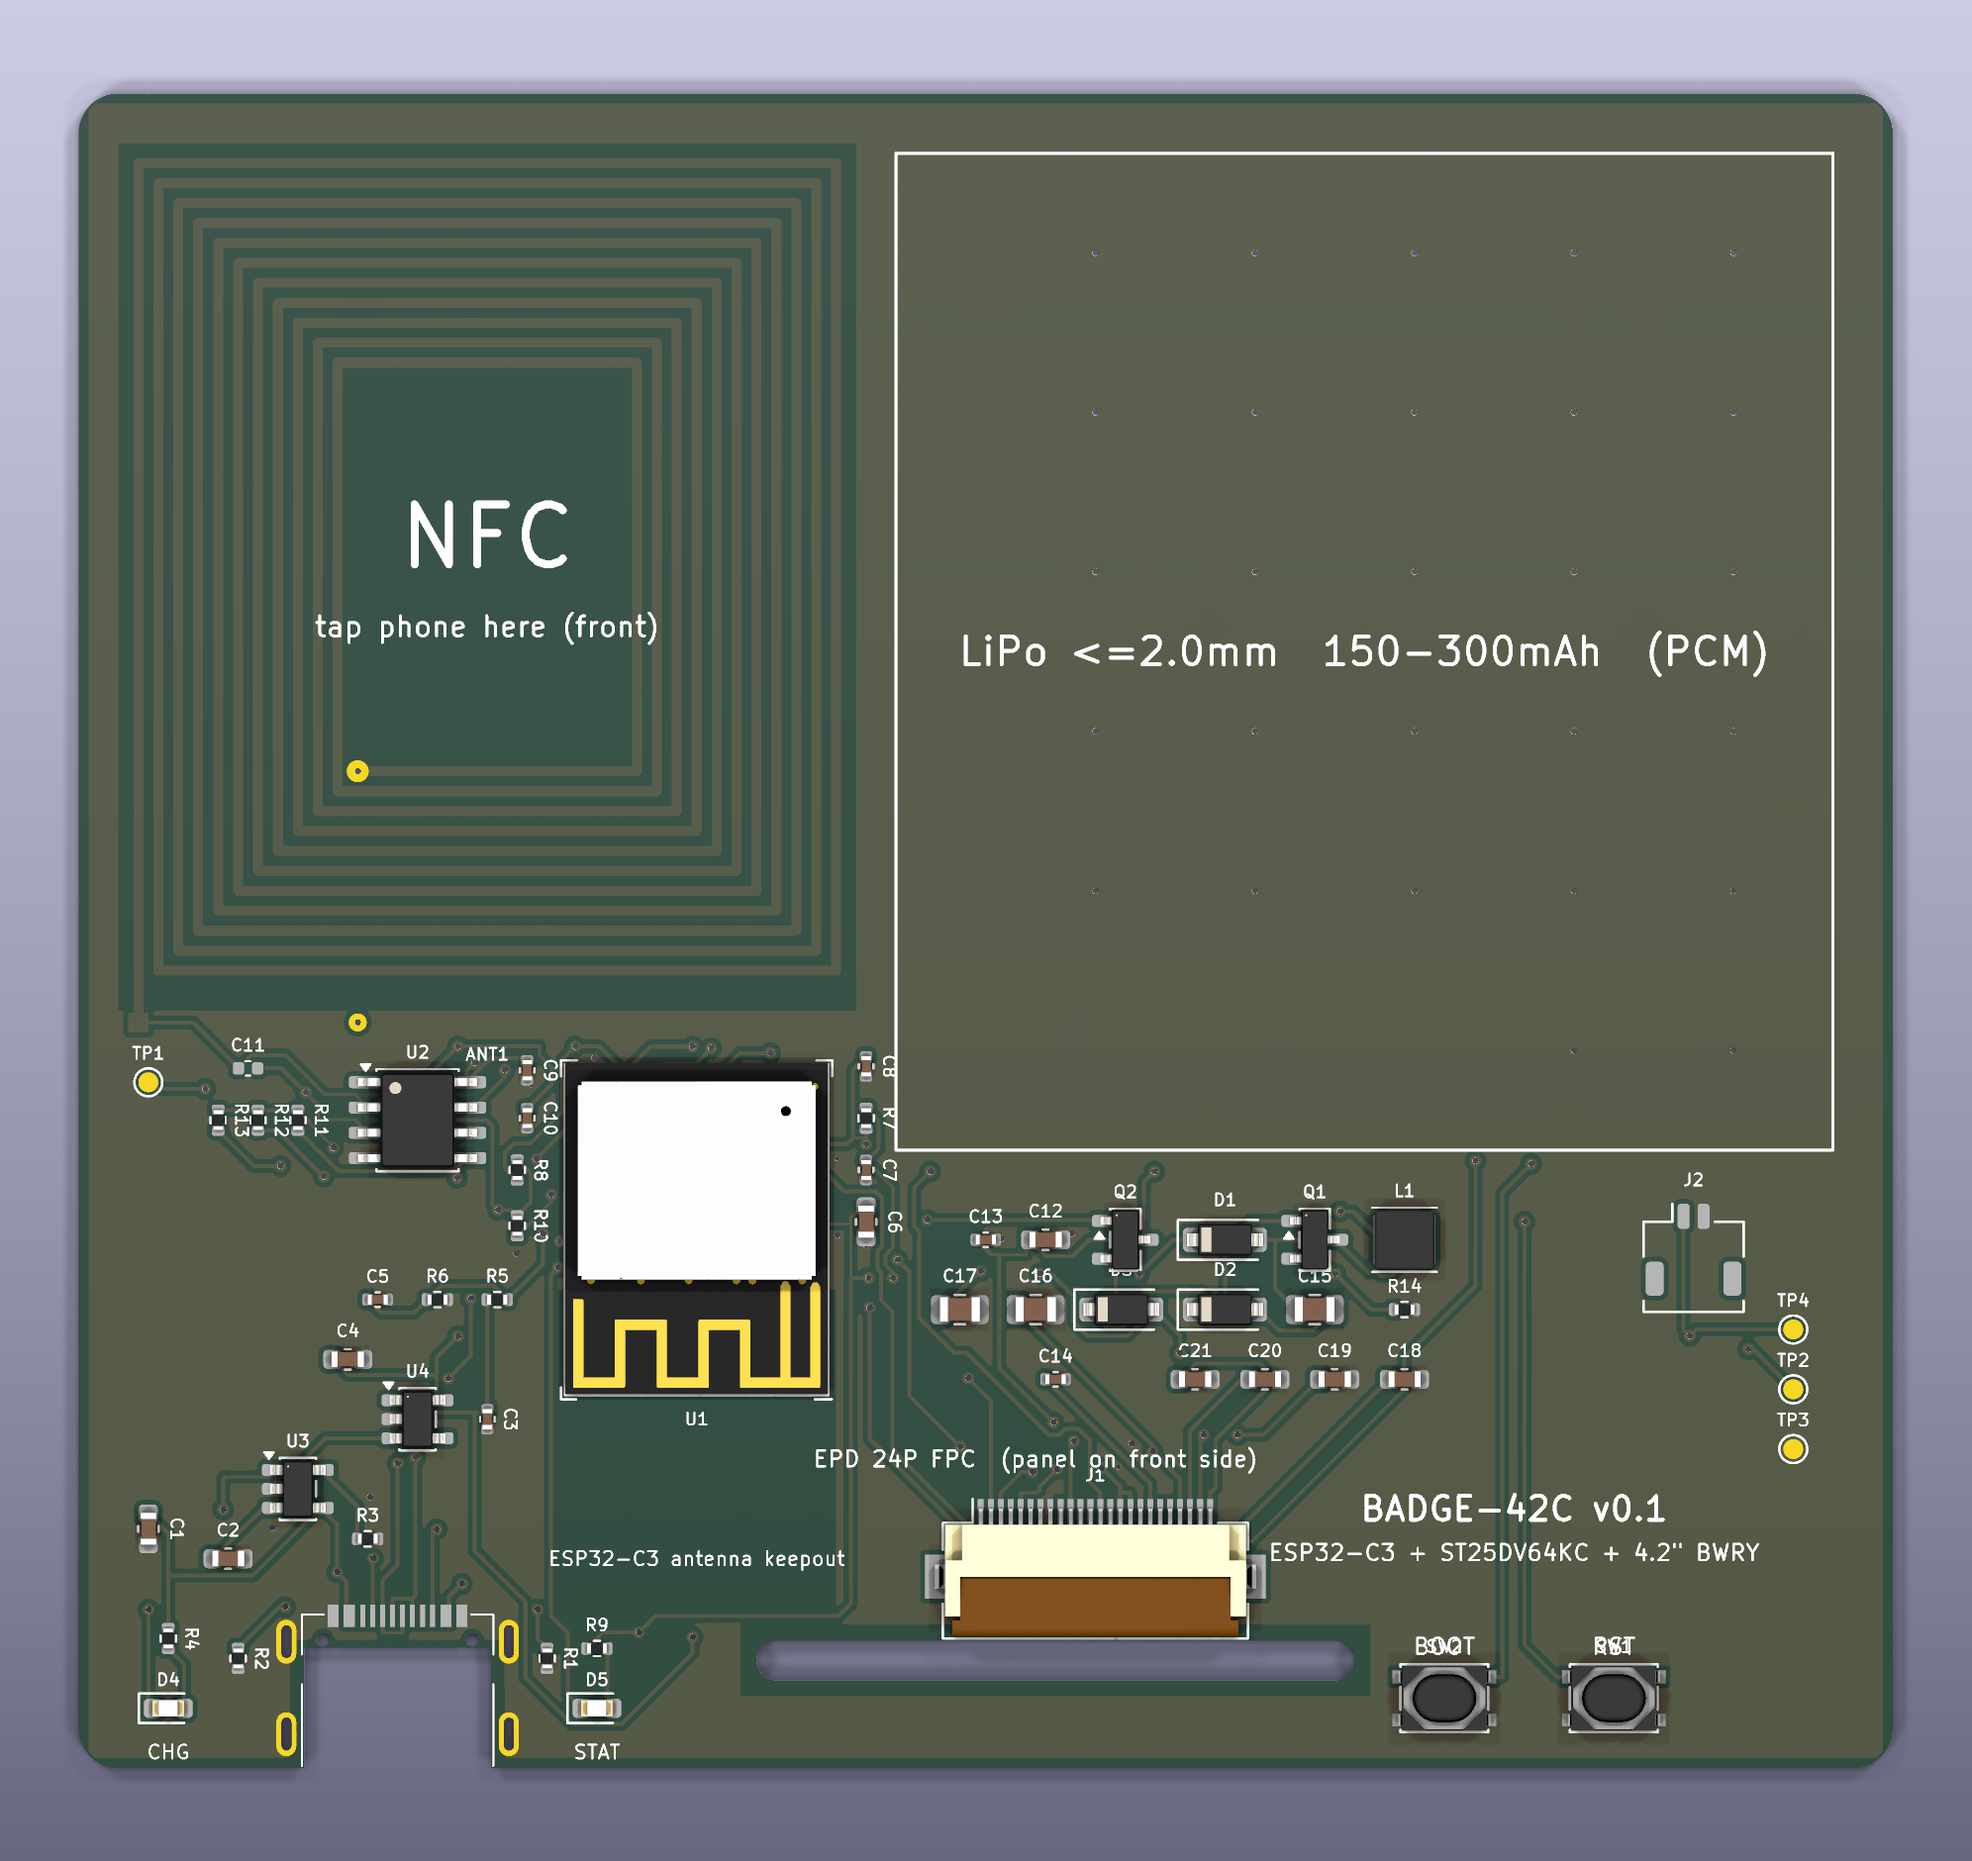
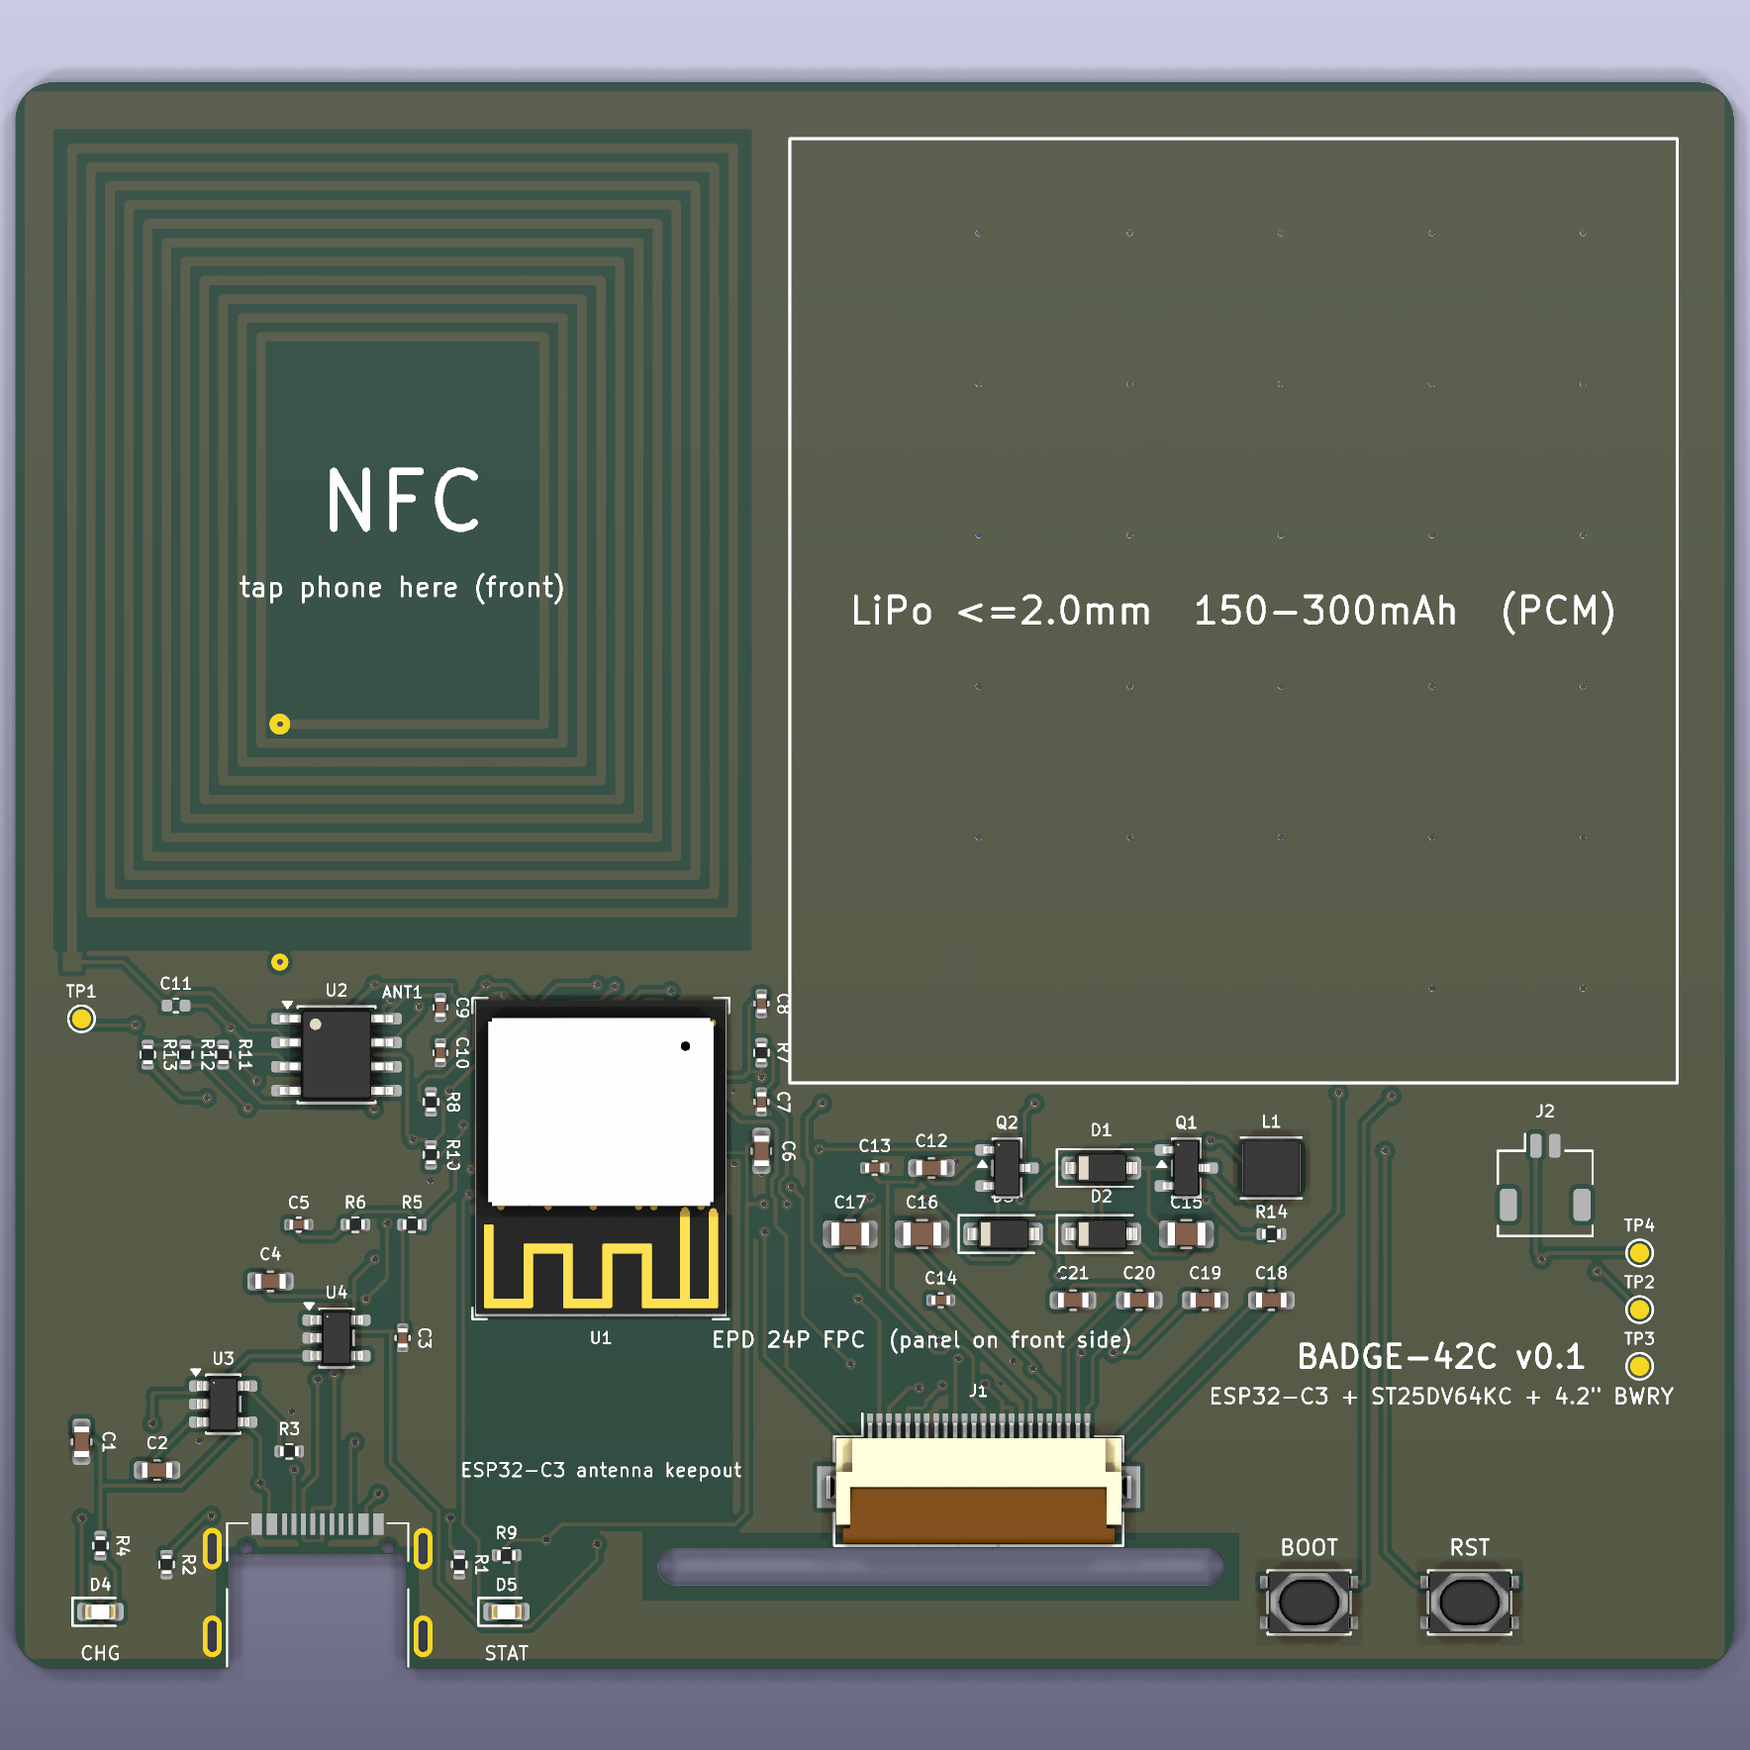
Rearrange back silkscreen so labels no longer overlap J1 and BOOT/RST
The chipset line sat on J1; SW1/SW2 refs sat on the button labels. Silk only, no re-route.

Changed region(s): [[0.0, 0.0311, 1.0, 0.9644]]

diff --git a/hardware/pcb/scripts/gen_pcb.py b/hardware/pcb/scripts/gen_pcb.py
@@ -85,6 +85,9 @@ class Gen:
             ref = fp.Reference()
             ref.SetTextSize(VECTOR2I(FromMM(0.6), FromMM(0.6)))
             ref.SetTextThickness(FromMM(0.1))
+            # SW1/SW2 refs land on the BOOT/RST labels; hide them.
+            if part.ref in ("SW1", "SW2"):
+                ref.SetVisible(False)
             fp.Value().SetVisible(False)
             self.fps[part.ref] = fp
 
@@ -170,14 +173,8 @@ class Gen:
         cx0, cy0, cx1, cy1 = D.NFC_COIL_RECT
         self.text("NFC", (cx0 + cx1) / 2, (cy0 + cy1) / 2 - 2, size=3.0, thick=0.4)
         self.text("tap phone here (front)", (cx0 + cx1) / 2, (cy0 + cy1) / 2 + 2.5, size=1.0, thick=0.15)
-        self.text("EPD 24P FPC  (panel on front side)", 43.0, 68.5, size=0.8, thick=0.12)
-        self.text("ESP32-C3 antenna keepout", 60.0, 73.5, size=0.7, thick=0.1)
-        self.text("BADGE-42C v0.1", 19.0, 71.0, size=1.2, thick=0.2)
-        self.text("ESP32-C3 + ST25DV64KC + 4.2\" BWRY", 19.0, 73.2, size=0.8, thick=0.12)
-        self.text("RST", 14.0, 77.9, size=0.8, thick=0.12)
-        self.text("BOOT", 22.5, 77.9, size=0.8, thick=0.12)
-        self.text("CHG", 86.5, 83.2, size=0.7, thick=0.1)
-        self.text("STAT", 65.0, 83.2, size=0.7, thick=0.1)
+        for txt, x, y, size, thick in D.SILK_BACK:
+            self.text(txt, x, y, size=size, thick=thick)
         # front side marking for the panel & NFC tap area
         self.text("4.2\" BWRY e-paper glued here (91x77)", D.BOARD_W / 2, D.PANEL_H / 2, layer=pcbnew.F_SilkS, size=1.5, thick=0.2)
 

diff --git a/hardware/pcb/scripts/design.py b/hardware/pcb/scripts/design.py
@@ -76,6 +76,19 @@ ESP_ANT_KEEPOUT = (53.0, 60.0, 67.0, 76.0)  # no copper under/in front of the mo
 NFC_TRACE_W = 0.5
 NFC_TRACE_GAP = 0.5
 
+# B.SilkS labels (text, x, y, size, thick). Keep clear of J1 (40,73) and SW1/SW2.
+# BOOT/RST sit on the buttons; title/chipset sit above them, left of J1.
+SILK_BACK = [
+    ("EPD 24P FPC  (panel on front side)", 43.0, 66.6, 0.8, 0.12),
+    ("ESP32-C3 antenna keepout", 60.0, 73.5, 0.7, 0.1),
+    ("BADGE-42C v0.1", 15.5, 67.5, 1.2, 0.2),
+    ("ESP32-C3 + ST25DV64KC + 4.2\" BWRY", 15.5, 69.6, 0.8, 0.12),
+    ("RST", 14.0, 77.6, 0.8, 0.12),
+    ("BOOT", 22.5, 77.6, 0.8, 0.12),
+    ("CHG", 86.5, 83.2, 0.7, 0.1),
+    ("STAT", 65.0, 83.2, 0.7, 0.1),
+]
+
 # ----------------------------------------------------------------------------
 # Component model
 # ----------------------------------------------------------------------------
